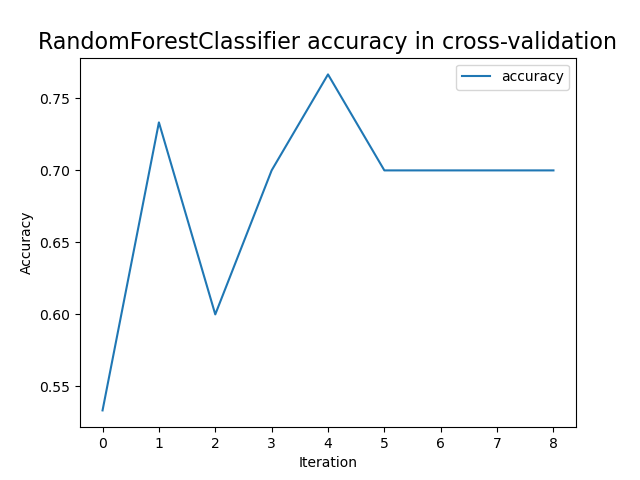
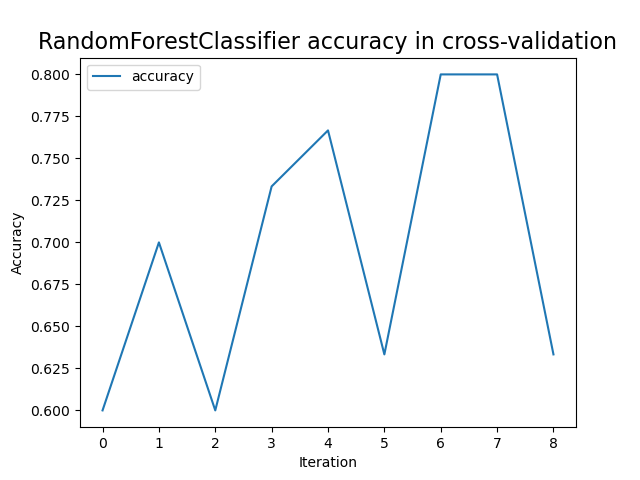
Changed random forest parameter and added method to create scatter plots

diff --git a/main.py b/main.py
@@ -63,16 +63,53 @@ def plot_graph(dataset):
              'v', markersize=6, color='r', label='down')
 
 
+def plot_pca_scatter(df, pred, crypto_name):
+    x = df[predictors]
+    y = df[['trend']]
+    classes = ['down', 'flat', 'up']
+
+    fig = plt.figure()
+    ax = fig.add_subplot(111, projection='3d')
+
+    pre = create_preprocessor(pred, 3)
+    x_new_3d = pre.fit_transform(x)
+
+    scat = ax.scatter(x_new_3d[:, 0], x_new_3d[:, 1], x_new_3d[:, 2], c=y)
+    ax.set_title(crypto_name, fontsize=16)
+    ax.set_xlabel('PC1')
+    ax.set_ylabel('PC2')
+    ax.set_zlabel('PC3')
+    ax.legend(handles=scat.legend_elements()[0], labels=classes, loc='upper left', fontsize=12)
+
+    plt.savefig('plots/scatter_plots/pca_scatter_plot_3d_' + crypto_name + '.png')
+
+    y = df['trend']
+    fig2 = plt.figure()
+    ax = fig2.add_subplot(111)
+
+    pre2 = create_preprocessor(pred, 2)
+    x_new_2d = pre2.fit_transform(x)
+
+    scat2 = ax.scatter(x_new_2d[:, 0], x_new_2d[:, 1], c=y)
+    ax.set_title(crypto_name, fontsize=16)
+    ax.set_xlabel('PC1')
+    ax.set_ylabel('PC2')
+    ax.legend(handles=scat2.legend_elements()[0], labels=classes, loc='upper left', fontsize=12)
+
+    plt.savefig('plots/scatter_plots/pca_scatter_plot_2d_' + crypto_name + '.png')
+
+
 def plot_accuracy_cross_validation(clf, scores):
     df_accuracy = pd.DataFrame(scores, columns=['accuracy'])
     df_accuracy.plot()
-    plt.title(str(clf).replace('()', '') + ' accuracy in cross-validation', fontsize=16)
+    plt.title(str(clf).split('(')[0] + ' accuracy in cross-validation', fontsize=16)
     plt.xlabel("Iteration")
     plt.ylabel("Accuracy")
-    plt.savefig('plots/plot-accuracy-cross-validation/' + str(clf).replace('()', '') + '.png')
+    plt.savefig('plots/plot-accuracy-cross-validation/' + str(clf).split('(')[0] + '.png')
+
 
 def plot_fscore_cross_validation(clf, f1_down, f1_flat, f1_up):
-    #print(str(f1_down)+","+str(f1_flat)+","+str(f1_up))
+    # print(str(f1_down)+","+str(f1_flat)+","+str(f1_up))
     try:
         df_f1score = pd.DataFrame({
             "f1_down": f1_down,
@@ -84,16 +121,16 @@ def plot_fscore_cross_validation(clf, f1_down, f1_flat, f1_up):
     except:
         pass
 
-    plt.title(str(clf).replace('()', '') + ' f score in cross-validation', fontsize=16)
+    plt.title(str(clf).split('(')[0] + ' f score in cross-validation', fontsize=16)
     plt.xlabel("Iteration")
     plt.ylabel("F-Score")
-    plt.savefig('plots/plot-fscore-cross-validation/' + str(clf).replace('()', '') + '.png')
+    plt.savefig('plots/plot-fscore-cross-validation/' + str(clf).split('(')[0] + '.png')
 
 
-def create_preprocessor(predictors):
+def create_preprocessor(predictors, pca_comp):
     numeric_transformer = Pipeline(steps=[
         ('scaler', StandardScaler()),  # Standardize features by removing the mean and scaling to unit variance
-        ("pca", PCA())
+        ("pca", PCA(n_components=pca_comp))
     ])
 
     numeric_features = predictors
@@ -126,7 +163,7 @@ def cross_validation(dataset, predictors, classifier):
         print("Class label for training set : ", Counter(y_train['trend']))
         print("Class label for test set : ", Counter(y_test['trend']))
 
-        preprocessor = create_preprocessor(predictors)
+        preprocessor = create_preprocessor(predictors, None)
 
         pipe = Pipeline(steps=[
             ('preprocessor', preprocessor)
@@ -233,9 +270,11 @@ if __name__ == '__main__':
                   'volume'
                   ]
 
+    plot_pca_scatter(dataset, predictors, CRYPTO_CURRENCY.split('-')[0])
+
     # CLASSIFIERS TRAINING
     classifiers = [
-        RandomForestClassifier(),
+        RandomForestClassifier(criterion="entropy"),
         AdaBoostClassifier(),
         KNeighborsClassifier(),
         LogisticRegression(),
@@ -276,7 +315,7 @@ if __name__ == '__main__':
     print("Class label for training set : ", Counter(y_train['trend']))
     print("Class label for test set : ", Counter(y_test['trend']))
 
-    preprocessor = create_preprocessor(predictors)
+    preprocessor = create_preprocessor(predictors, None)
 
     pipe = Pipeline(steps=[
         ('preprocessor', preprocessor)
